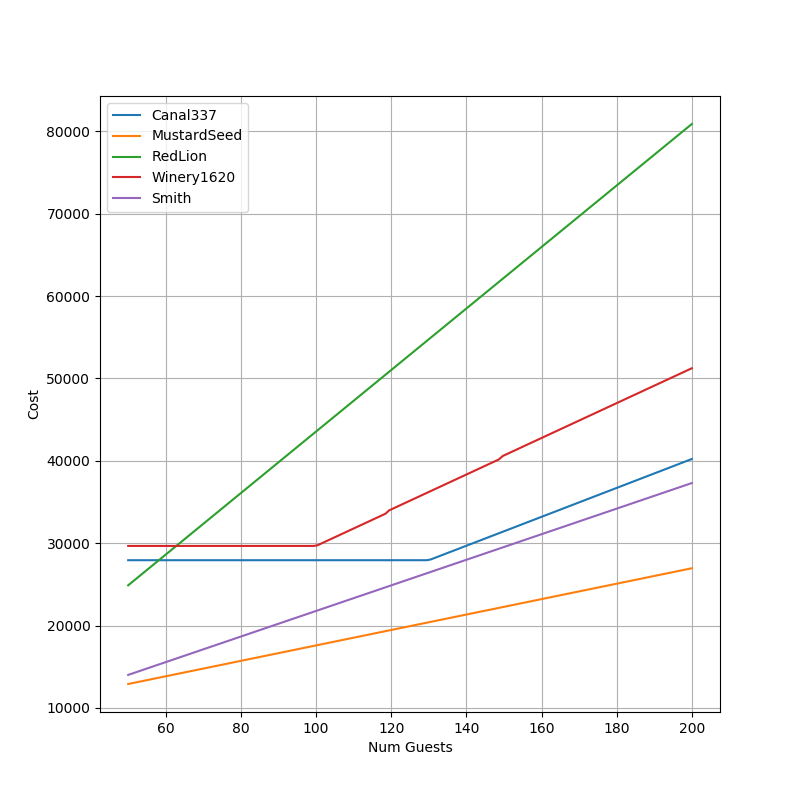
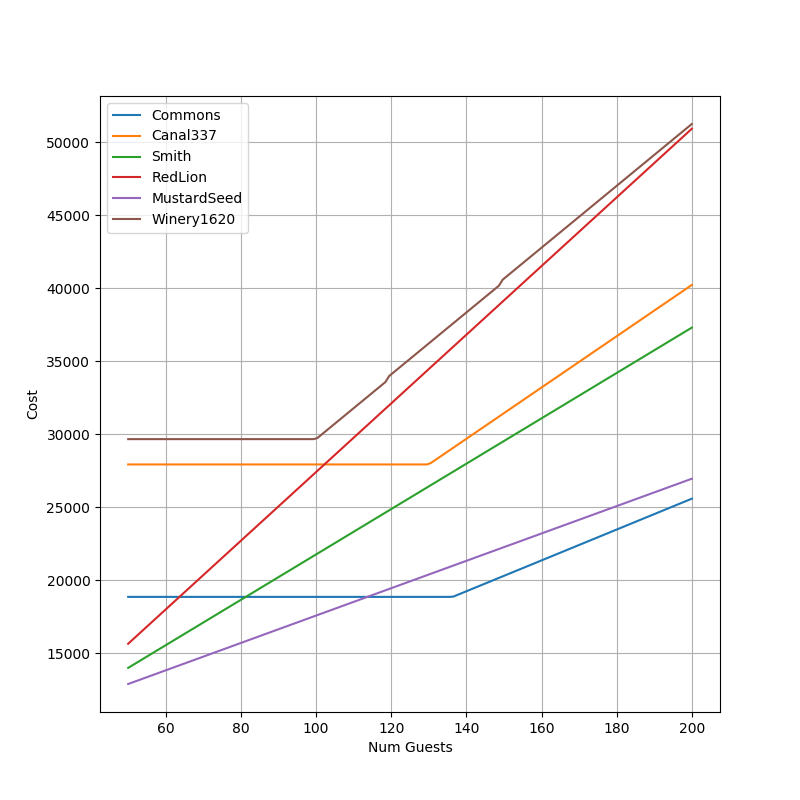
Costs for commons

diff --git a/wedding/utils/prices.py b/wedding/utils/prices.py
@@ -56,10 +56,25 @@ def red_lion_inn(num_guests: int) -> float:
     return (rental_fee + food_drink * num_guests) * (1 + admin + tax)
 
 
+def commons(num_guests: int) -> float:
+    rental = 3000
+    food_min = 10500
+    security = 59.2 * 8
+    food_add = 0.08
+    sales_tax = 0.07
+    gratuity = 0.2
+    food = 60 + 12 + 5
+    beer = 35 + 10
+    food_pre_tax = food * num_guests if food * num_guests > food_min else food_min
+    food_pre_tax *= (1 + food_add)
+    return (rental + food_pre_tax + security + beer) * (1 + sales_tax + gratuity)
+
+
 prices = {
     'MustardSeed': mustard_seed,
     'Canal337': canal_337,
     'Smith': smith_farm,
     'Winery1620': winery_1620,
-    'RedLion': red_lion_inn
+    'RedLion': red_lion_inn,
+    'Commons': commons
 }
